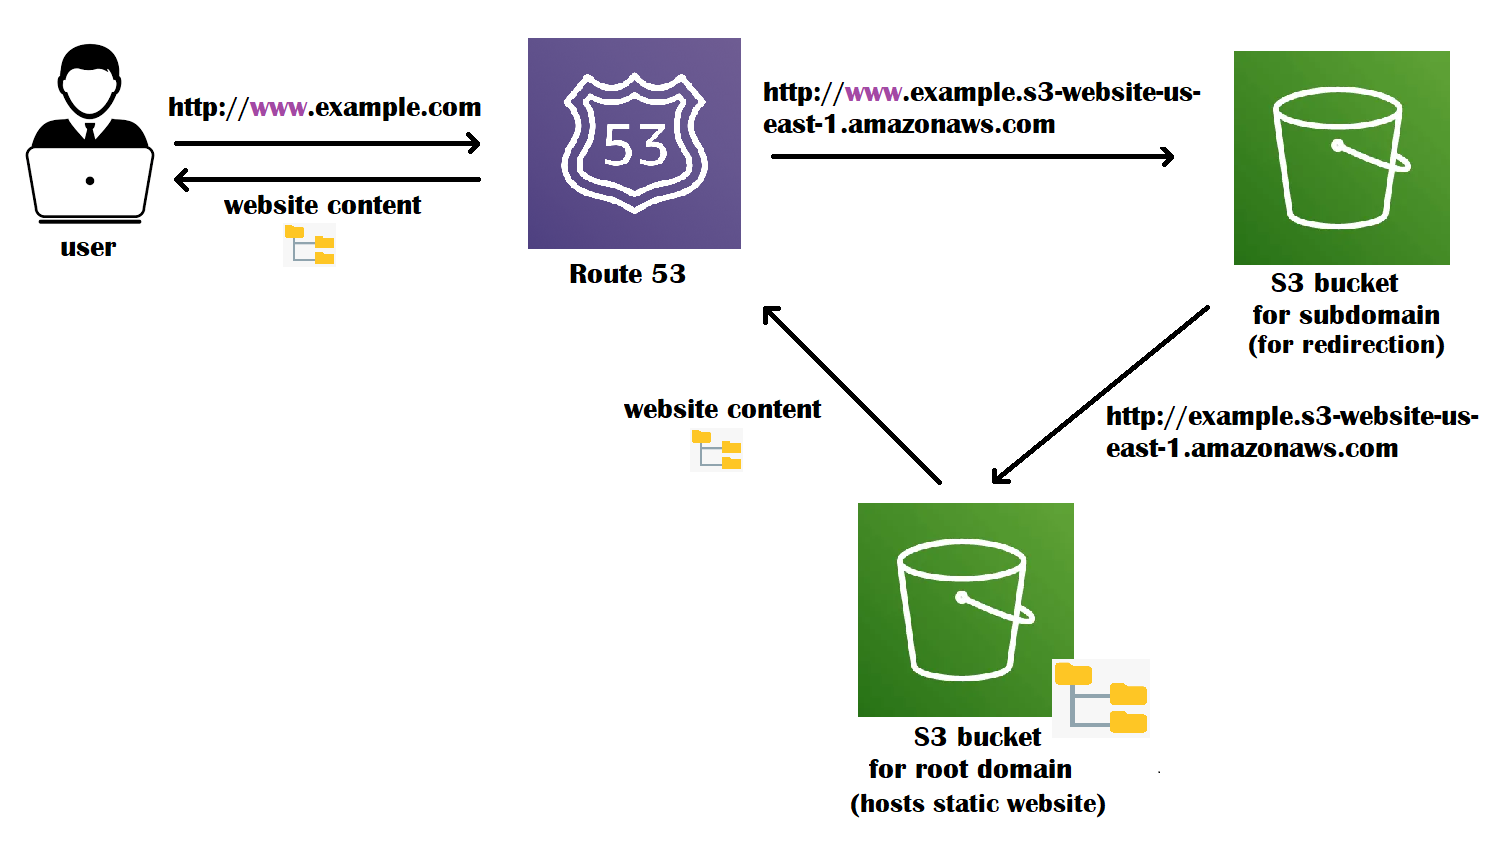
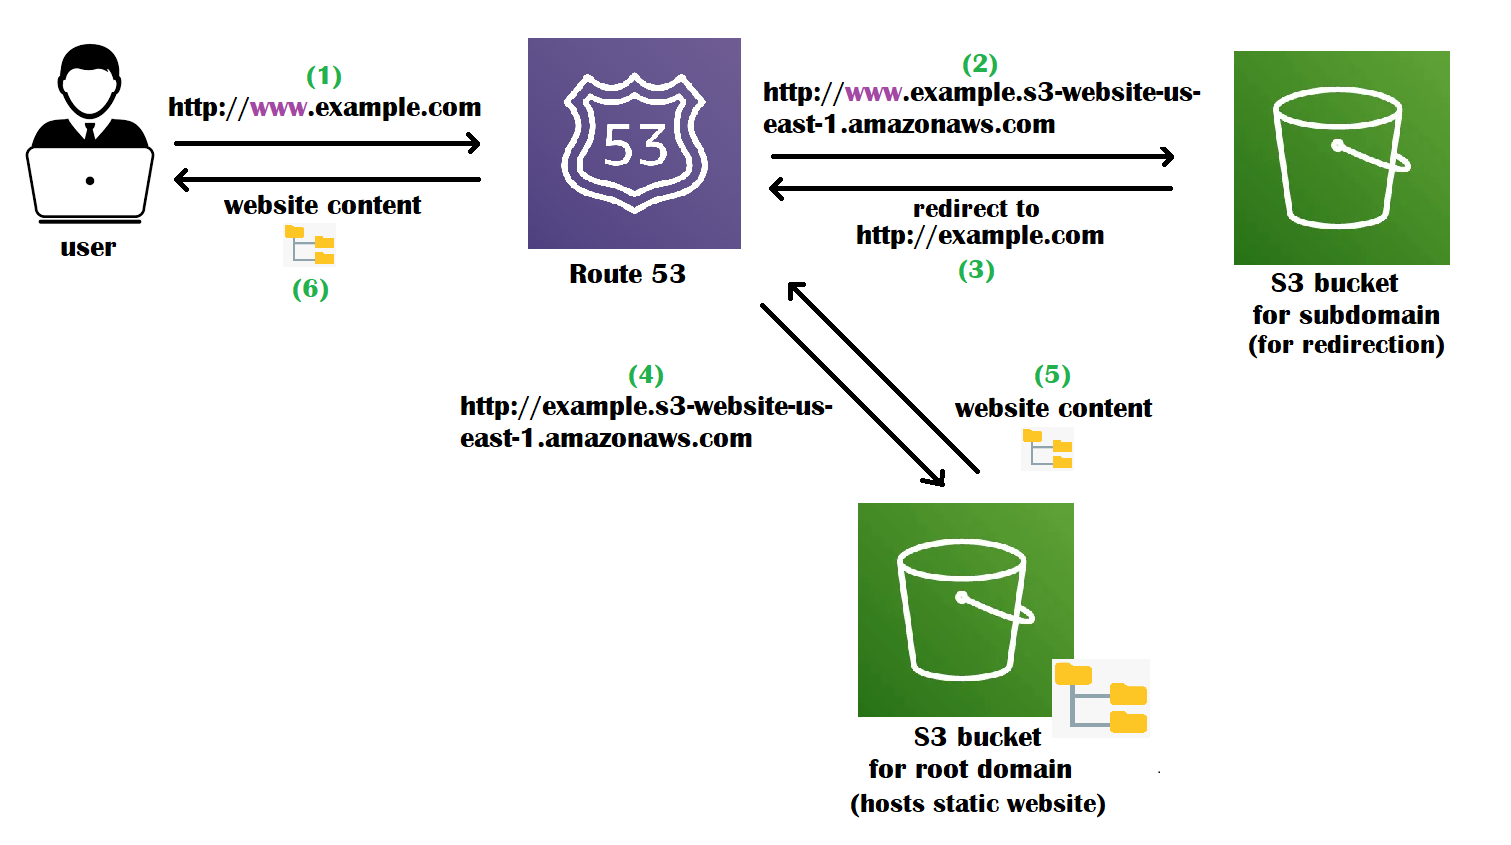
Updated Readme

diff --git a/cloudformation/module3/README.md b/cloudformation/module3/README.md
@@ -1,6 +1,5 @@
 # AWS project - Module 3. Use Your Custom Domain for Static Website Hosted on AWS S3 via Route 53 and CloudFormation
 
-
 ## **Overview**
 
 In [Module 1](https://dev.to/tiamatt/aws-project-module-1-host-a-static-website-on-aws-s3-via-cloudformation-2pa2), we have created a simple static website and hosted it on S3 bucket. To access our website we used Amazon S3 website endpoint which looked like `http://example.s3-website-us-east-1.amazonaws.com`. However for users the link is too long and hard to remember. If you want your website appear legitimate to visitors you should use a custom domain name such as `http://example.com`.
@@ -23,11 +22,11 @@ The high-level architecture for our project is illustrated in the diagram below:
 In this module we will focus on configuring S3 buckets and Route 53 records so that:
 :eight_spoked_asterisk: your users will be able to use domain name (such as `example.com`) to access your static website hosted on S3 bucket for root domain
 
-![Image description](https://dev-to-uploads.s3.amazonaws.com/uploads/articles/g00hpz8icffse4px3ygq.png)
+![Image description](https://dev-to-uploads.s3.amazonaws.com/uploads/articles/53a1r7ffnqnchvrlfsu6.png)
 
 :eight_spoked_asterisk: (optionally) your users will be able to use subdomain (such as `www.example.com`) to access your static website hosted on S3 bucket for root domain by redirecting here from S3 bucket for subdomain
 
-![Image description](https://dev-to-uploads.s3.amazonaws.com/uploads/articles/0tu8s40h7hwfx5ntc82l.png)
+![Image description](https://dev-to-uploads.s3.amazonaws.com/uploads/articles/muly9ixofra3itkqs0xj.png)
 
 
 ## **Source code**
@@ -419,7 +418,7 @@ After you create a hosted zone for your domain, such as `example.com`, you need 
 
 :one: In our case we need to create a record to route internet traffic from root domain (such as `example.com`) to S3 bucket that hosts static website. 
 
-![Image description](https://dev-to-uploads.s3.amazonaws.com/uploads/articles/g00hpz8icffse4px3ygq.png)
+![Image description](https://dev-to-uploads.s3.amazonaws.com/uploads/articles/53a1r7ffnqnchvrlfsu6.png)
 
 The following piece of code helps to create a new record for S3 bucket for root domain:
 
@@ -475,7 +474,7 @@ See the whole list of hosted zone ids for different AWS services [here](https://
 
 :two: Optionally, we can create a new record for S3 subdomain  bucket which will redirect traffic to S3 bucket for root domain.
 
-![Image description](https://dev-to-uploads.s3.amazonaws.com/uploads/articles/0tu8s40h7hwfx5ntc82l.png)
+![Image description](https://dev-to-uploads.s3.amazonaws.com/uploads/articles/muly9ixofra3itkqs0xj.png)
 
 The following piece of code helps to create a new record for S3 bucket for subdomain:
 
@@ -536,7 +535,6 @@ By using a custom domain, we can boost professionalism and make our site more ac
 
 ## **Useful links**
 
-Articles:
 - AWS Official - Use your domain for a static website in an Amazon S3 bucket - https://docs.aws.amazon.com/Route53/latest/DeveloperGuide/getting-started-s3.html
 
 - AWS Official -  What is Amazon Route 53? https://docs.aws.amazon.com/Route53/latest/DeveloperGuide/Welcome.html 

diff --git a/cloudformation/module2/README.md b/cloudformation/module2/README.md
@@ -1,4 +1,4 @@
-# AWS project - Module 2. Automate the build of a Static Website on AWS S3 via CodeBuild and CloudFormation
+# AWS project - Module 2. Automate the build of a Static Website Hosted on AWS S3 via CodeBuild and CloudFormation
 
 ## **Overview**
 In [Module 1](https://dev.to/tiamatt/aws-project-module-1-host-a-static-website-on-aws-s3-via-cloudformation-2pa2), we have created a simple static web app and hosted it on S3 bucket. However we took baby steps to deploy our static content to S3 bucket *manually*. Ideally we want to use a tool that would rebuild the source code *every time* a code change is pushed to the repository and deploy built files to S3 bucket *automatically*.
